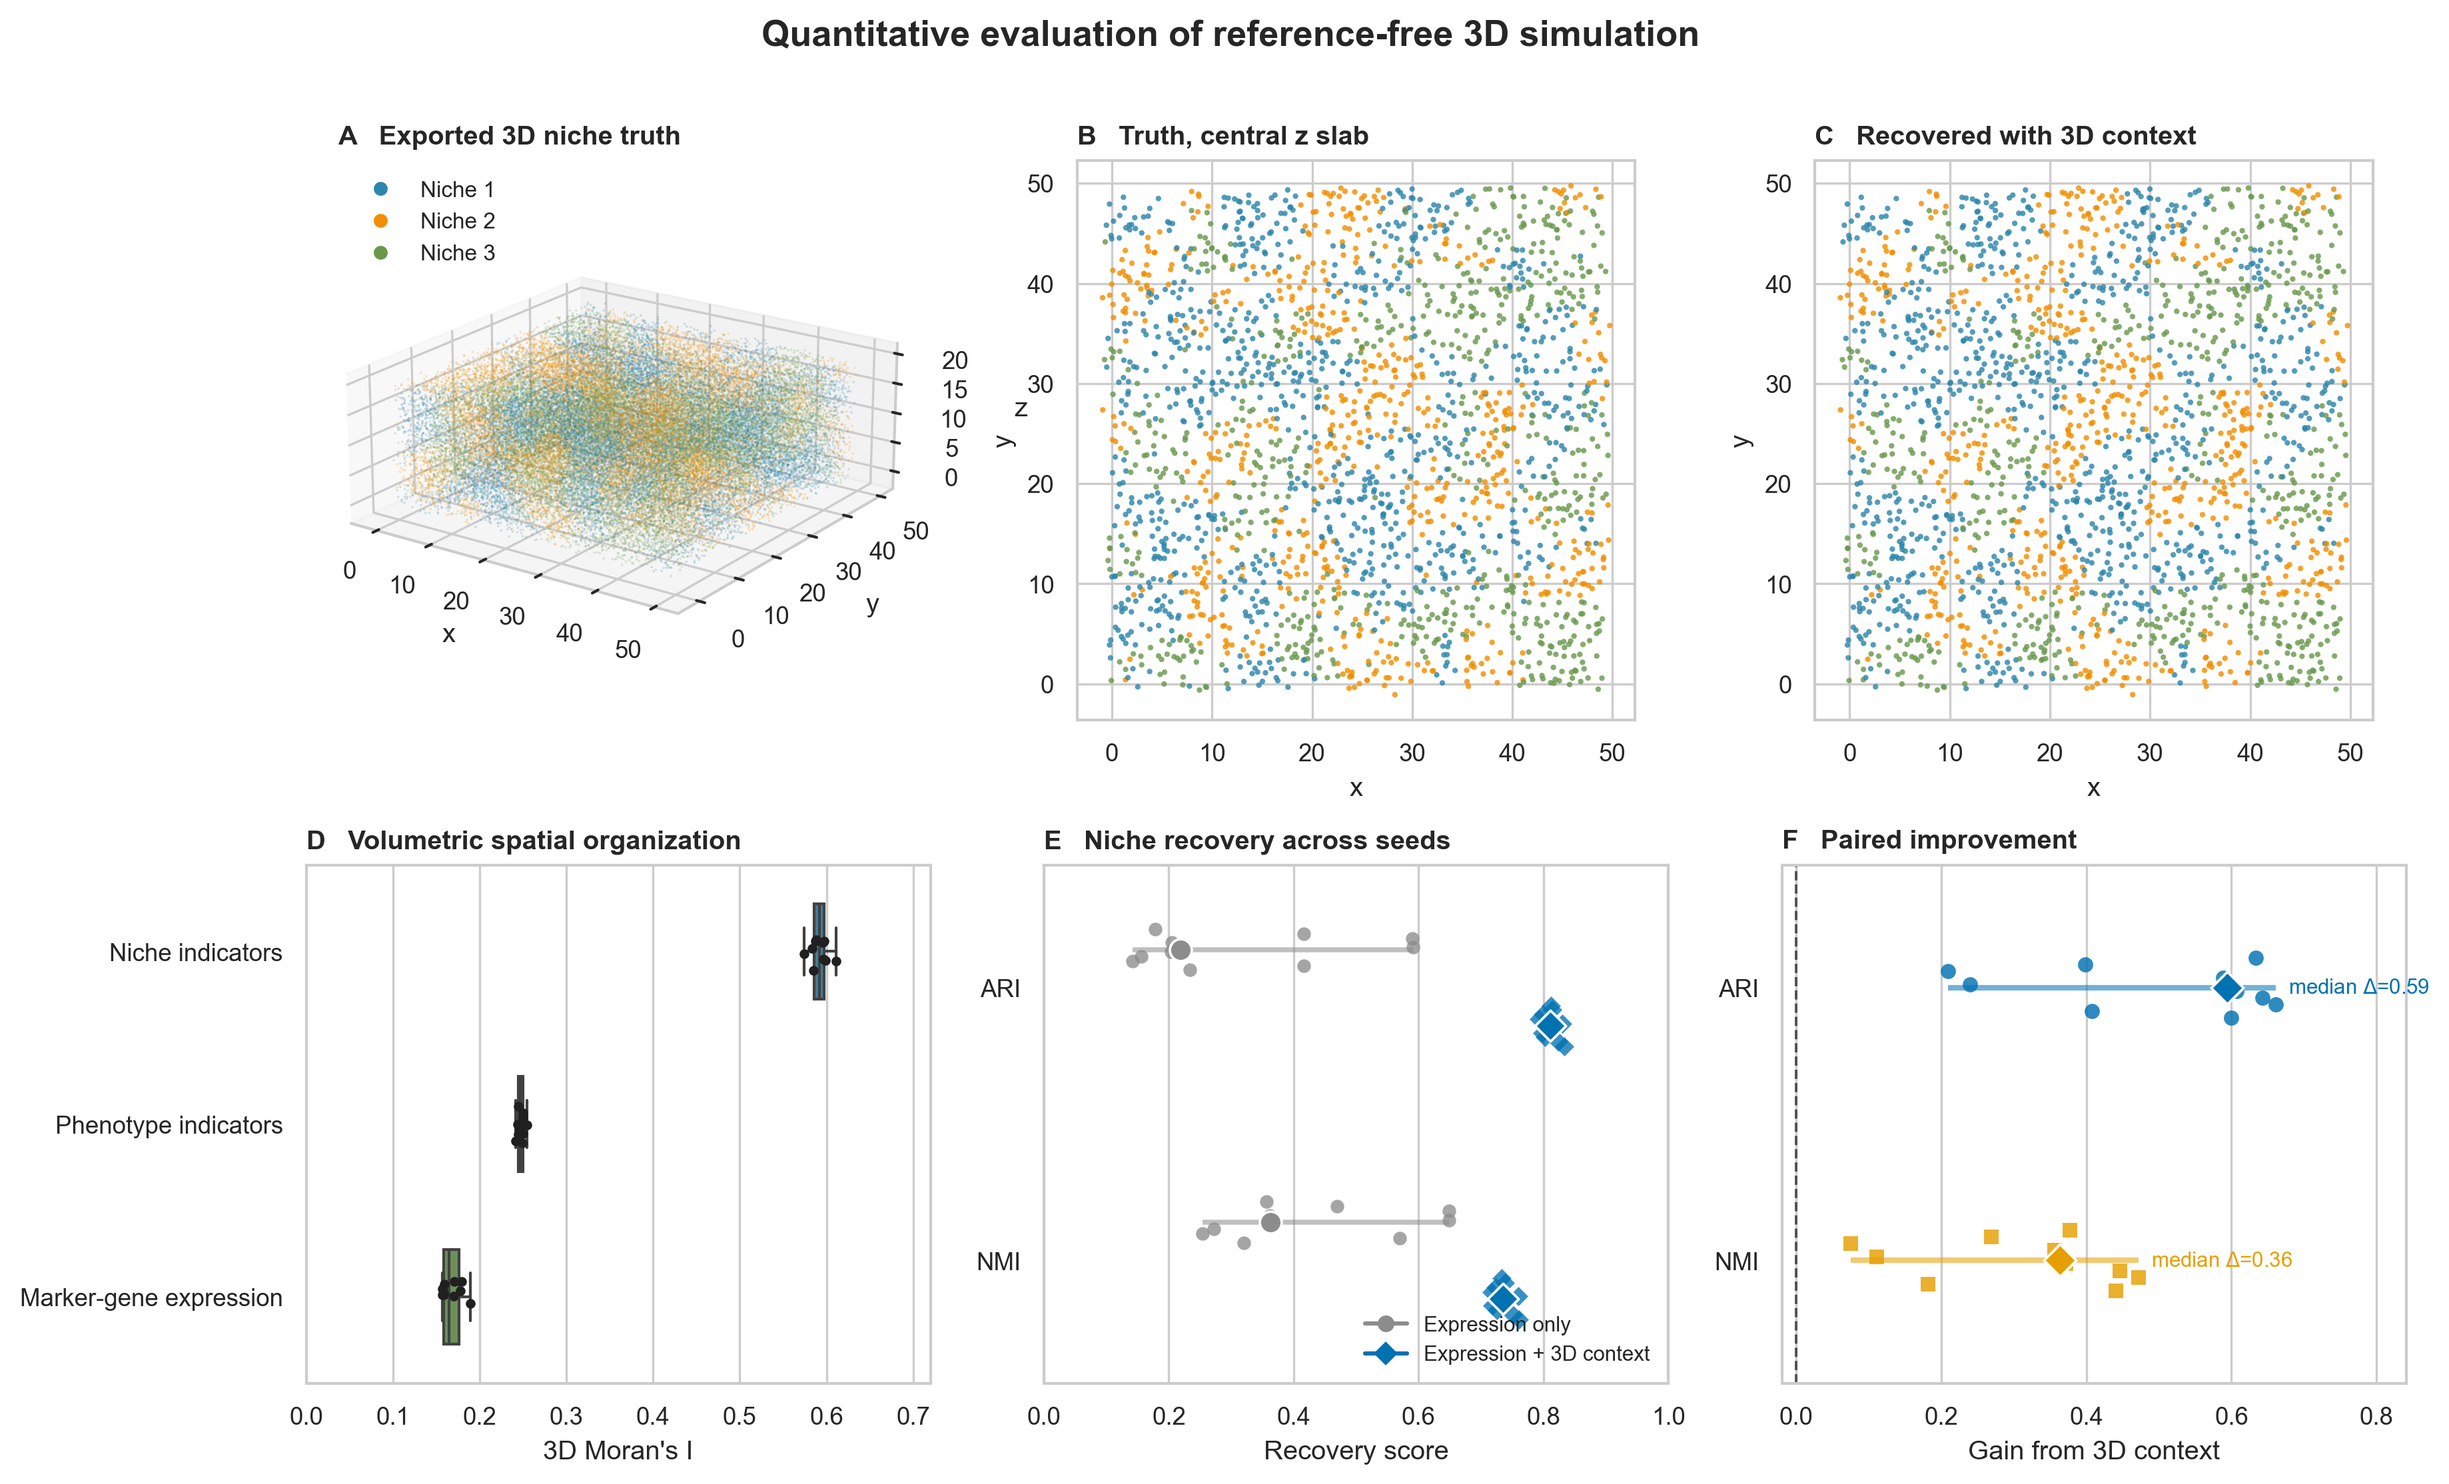
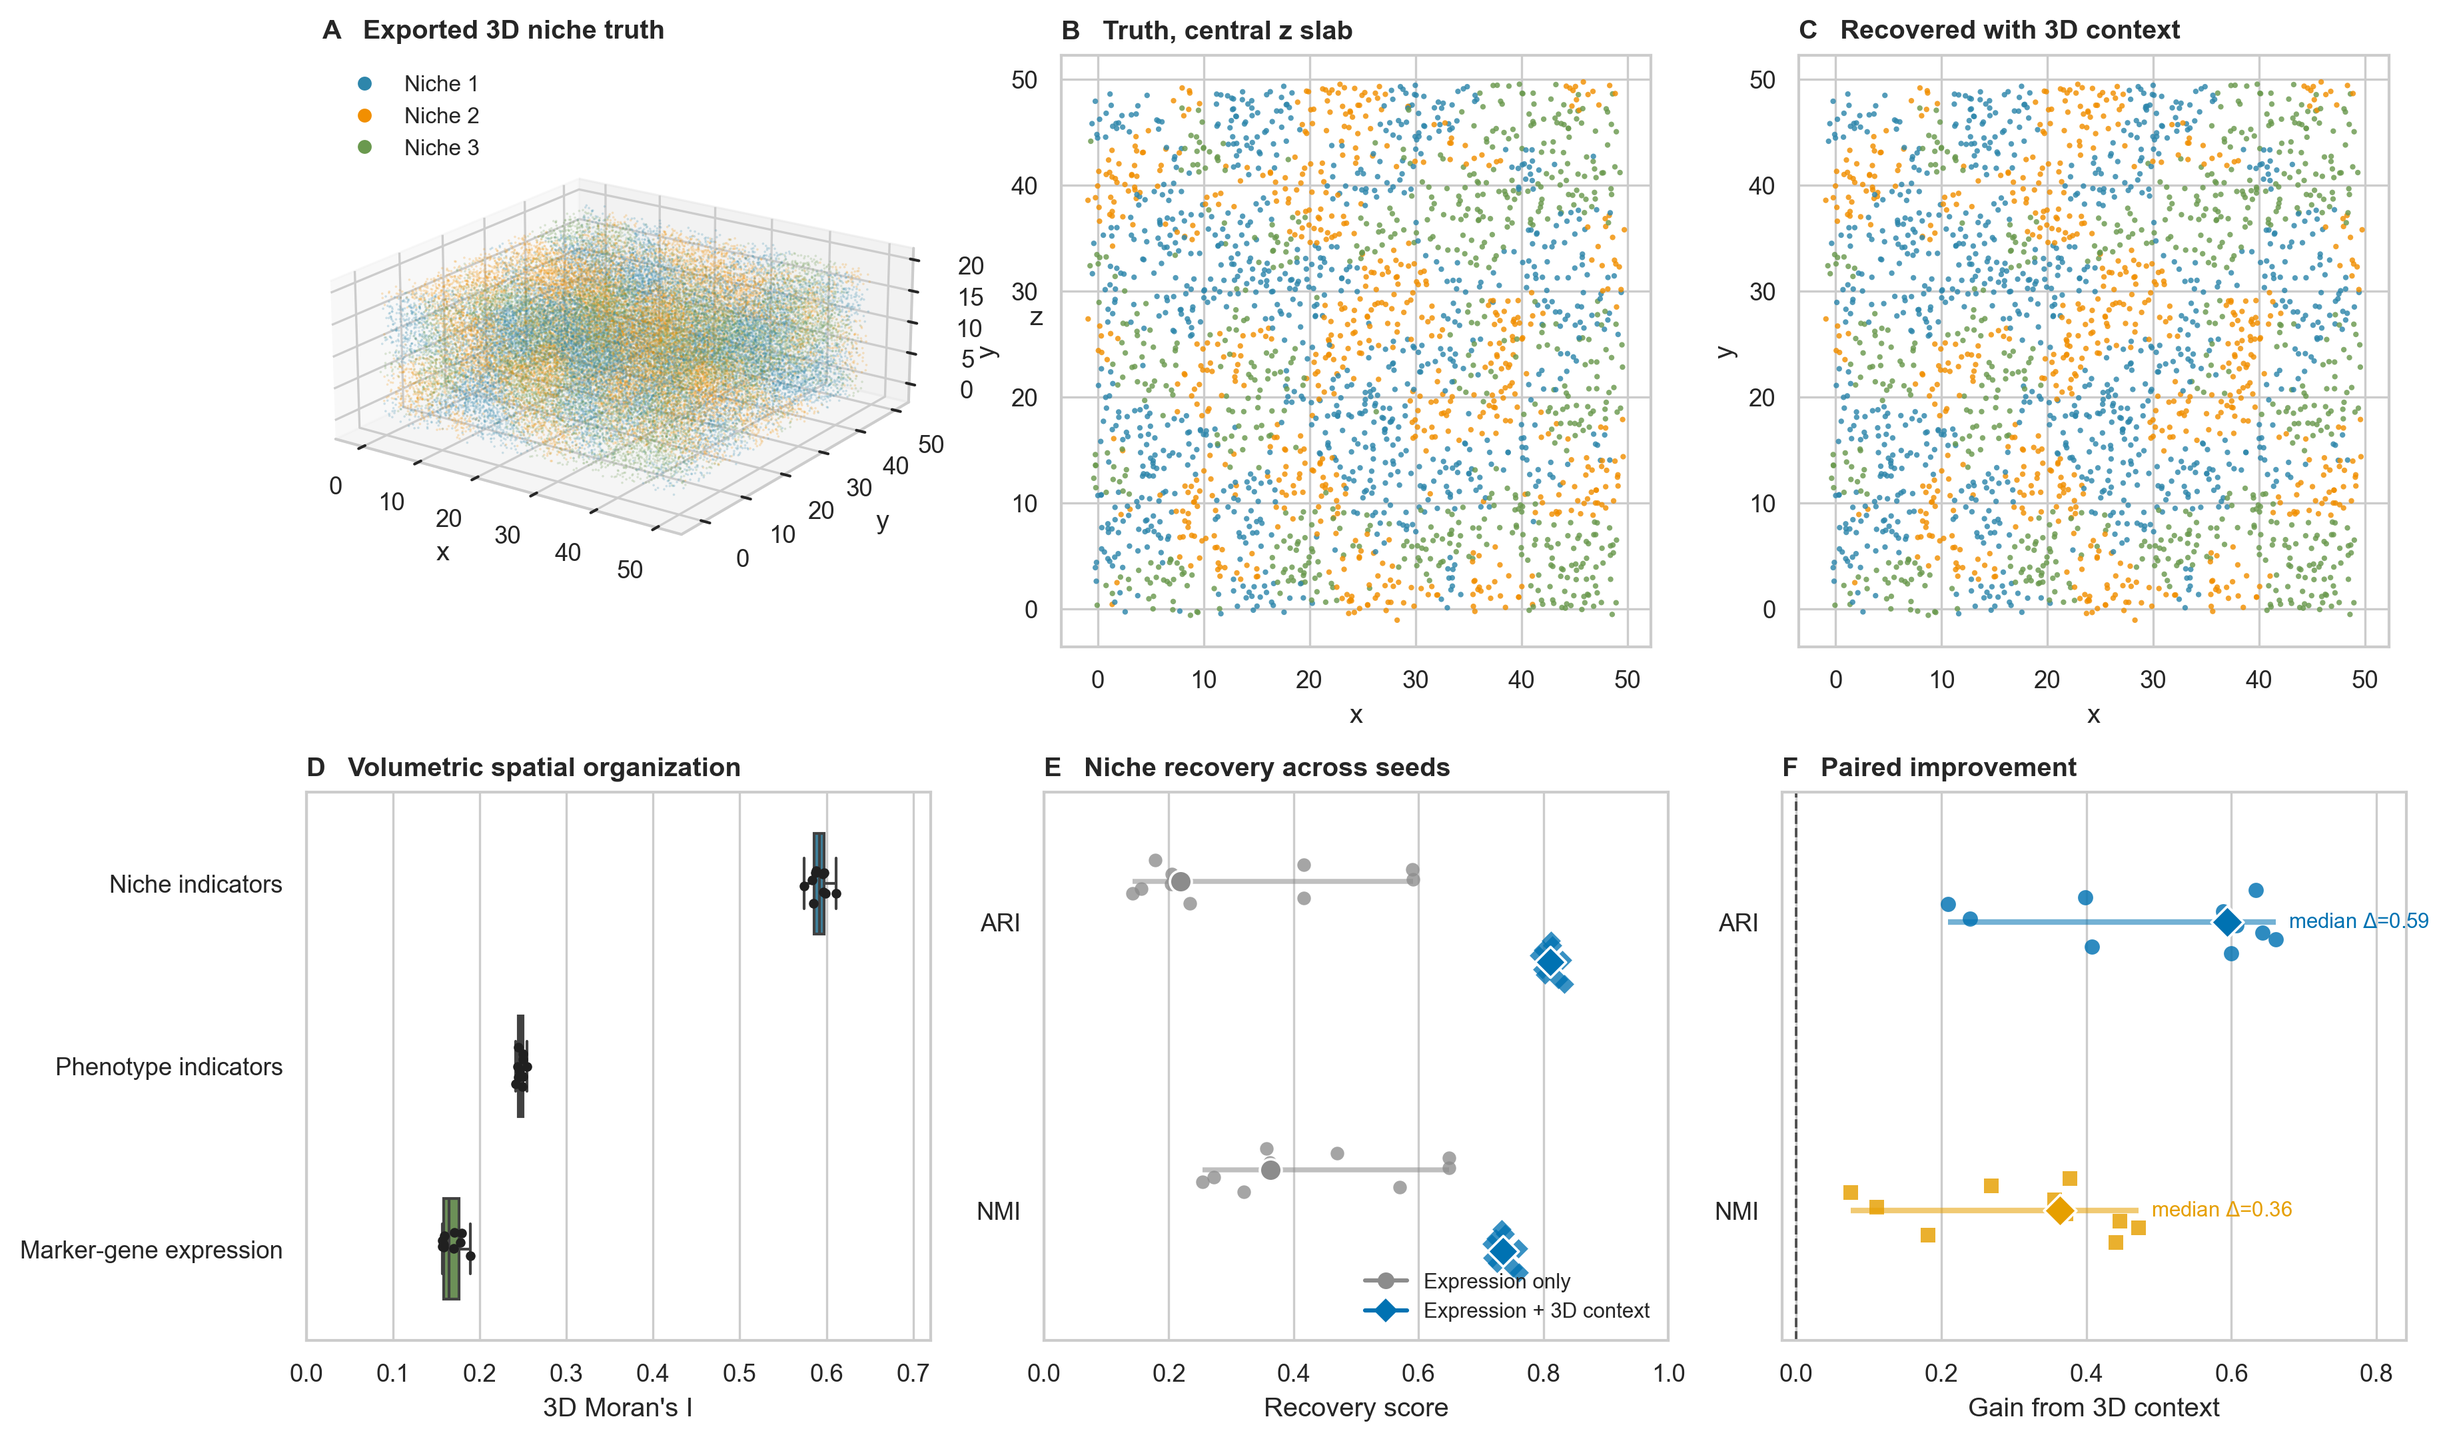
Update supp figure 5, 7, and 9

diff --git a/supp_figures/SFig5/SFig5.py b/supp_figures/SFig5/SFig5.py
@@ -52,13 +52,19 @@ PERTURBATION_SD = 0.2
 MORAN_K = 5
 GEARY_K = 20
 INTERACTION_K = 50
-SIMSPACE_EXPECTED_VERSION = "0.3.2"
-SIMSPACE_SOURCE_COMMIT = "ecf2855612871498dc89b8d43169229dfb8f6057"
+SIMSPACE_EXPECTED_VERSION = "0.3.4"
+SIMSPACE_SOURCE_COMMIT = "de0a4c002e4ae733e354e3e180ab69b381ad994a"
 
 METRIC_LABELS = {
     "moran_i": "Moran's I",
     "geary_c": "Geary's C",
     "interaction_distance": "Interaction distance",
+}
+
+METRIC_TITLES = {
+    "moran_i": "Moran's I Distribution",
+    "geary_c": "Geary's C Distribution",
+    "interaction_distance": "Cell Type Interaction Distribution",
 }
 
 
@@ -334,15 +340,15 @@ def plot_figure(
     raw_metrics: pd.DataFrame,
     representative: dict[int, pd.DataFrame],
 ) -> plt.Figure:
-    sns.set_theme(style="whitegrid", context="paper")
+    sns.set_theme(style="white", context="paper")
     figure = plt.figure(figsize=(12.0, 6.7), dpi=300)
-    grid = figure.add_gridspec(2, 4, height_ratios=[1.05, 1.0])
+    grid = figure.add_gridspec(2, 1, height_ratios=[1.0, 1.0])
+    summary_grid = grid[0, 0].subgridspec(1, 3, wspace=0.30)
+    layout_grid = grid[1, 0].subgridspec(1, 4, wspace=0.25)
     palette = sns.color_palette("viridis", len(SWEEP_COUNTS))
-    default_index = SWEEP_COUNTS.index(DEFAULT_SWEEPS)
-    palette[default_index] = sns.color_palette("muted")[3]
 
     for index, metric in enumerate(METRIC_LABELS):
-        axis = figure.add_subplot(grid[0, index])
+        axis = figure.add_subplot(summary_grid[0, index])
         subset = raw_metrics[raw_metrics["metric"] == metric]
         sns.violinplot(
             data=subset,
@@ -357,46 +363,28 @@ def plot_figure(
         )
         axis.set_xlabel("Phenotype Gibbs sweeps")
         axis.set_ylabel(METRIC_LABELS[metric])
-        axis.set_title(chr(ord("A") + index), loc="left", fontweight="bold")
+        axis.set_title(METRIC_TITLES[metric])
+        if index == 0:
+            axis.text(
+                -0.12,
+                1.08,
+                "A",
+                transform=axis.transAxes,
+                fontsize=13,
+                fontweight="bold",
+                va="top",
+            )
 
-    legend_axis = figure.add_subplot(grid[0, 3])
-    legend_axis.axis("off")
-    legend_axis.text(
-        0.02,
-        0.95,
-        "Sensitivity design",
-        fontsize=11,
-        fontweight="bold",
-        va="top",
-    )
-    legend_axis.text(
-        0.02,
-        0.82,
-        "8 fixed seeds (0–7)\n"
-        "2 niches; 9 cell states\n"
-        "100 × 100 lattice\n"
-        "6 niche sweeps (fixed)\n"
-        "Default: 4 phenotype sweeps\n\n"
-        "Violins pool the same metric\n"
-        "components across seeds.\n"
-        "This is a summary-sensitivity\n"
-        "analysis, not a proof of\n"
-        "full-field equilibrium.",
-        fontsize=9.2,
-        linespacing=1.35,
-        va="top",
-    )
-
-    state_palette = sns.color_palette("tab10", N_STATES)
+    state_palette = sns.color_palette("tab20", N_STATES)
     for index, sweeps in enumerate((1, 2, 4, 10)):
-        axis = figure.add_subplot(grid[1, index])
+        axis = figure.add_subplot(layout_grid[0, index])
         meta = representative[sweeps]
         colors = [state_palette[int(state)] for state in meta["state"]]
         axis.scatter(
             meta["col"],
             meta["row"],
             c=colors,
-            s=1.8,
+            s=8,
             linewidths=0,
             rasterized=True,
         )
@@ -404,19 +392,14 @@ def plot_figure(
         axis.set_xticks([])
         axis.set_yticks([])
         axis.set_title(
-            f"{chr(ord('D') + index)}   {sweeps} sweep"
+            f"{chr(ord('B') + index)}   {sweeps} sweep"
             f"{'s' if sweeps != 1 else ''}",
             loc="left",
             fontweight="bold",
         )
-        axis.set_xlabel("Seed 0")
+        axis.set_xlabel("X")
+        axis.set_ylabel("Y")
 
-    figure.suptitle(
-        "Sensitivity of spatial summaries to phenotype Gibbs sweep count",
-        fontsize=13,
-        fontweight="bold",
-        y=1.01,
-    )
     figure.tight_layout()
     return figure
 

diff --git a/supp_figures/SFig9/SFig9.py b/supp_figures/SFig9/SFig9.py
@@ -49,8 +49,8 @@ PERMUTATIONS = 100
 MIN_CELLTYPE_COUNT = 20
 MIN_GENE_DETECTION = 0.05
 MAX_GENE_DETECTION = 0.95
-SIMSPACE_EXPECTED_VERSION = "0.3.2"
-SIMSPACE_SOURCE_COMMIT = "ecf2855612871498dc89b8d43169229dfb8f6057"
+SIMSPACE_EXPECTED_VERSION = "0.3.4"
+SIMSPACE_SOURCE_COMMIT = "de0a4c002e4ae733e354e3e180ab69b381ad994a"
 
 TYPE_ABBREVIATIONS = {
     "Invasive_Tumor": "Tumor",
@@ -1097,11 +1097,6 @@ def plot_figure(
         )
         add_panel_label(axis, panel)
 
-    fig.suptitle(
-        "Local validation of a reference-guided SimSpace Xenium realization",
-        fontsize=15,
-        fontweight="bold",
-    )
     return fig
 
 

diff --git a/supp_figures/SFig7/SFig7.py b/supp_figures/SFig7/SFig7.py
@@ -67,8 +67,8 @@ SIX_CONNECTED_NEIGHBORHOOD = (
     (0, 0, -1),
     (0, 0, 1),
 )
-SIMSPACE_EXPECTED_VERSION = "0.3.2"
-SIMSPACE_SOURCE_COMMIT = "ecf2855612871498dc89b8d43169229dfb8f6057"
+SIMSPACE_EXPECTED_VERSION = "0.3.4"
+SIMSPACE_SOURCE_COMMIT = "de0a4c002e4ae733e354e3e180ab69b381ad994a"
 
 LEVEL_LABELS = {
     "niche_indicator": "Niche indicators",
@@ -592,12 +592,6 @@ def plot_figure(
         fontweight="bold",
     )
 
-    figure.suptitle(
-        "Quantitative evaluation of reference-free 3D simulation",
-        fontsize=13,
-        fontweight="bold",
-        y=1.01,
-    )
     figure.tight_layout()
     return figure
 

diff --git a/supp_figures/SFig9/SFig9_README.md b/supp_figures/SFig9/SFig9_README.md
@@ -1,6 +1,6 @@
 # Supplementary Figure 9 — local reference-guided validation
 
-This analysis addresses reviewer comments R1-2, R1-3, and R2-M6 using the
+This analysis addresses reviewer comments R1-2, R1-3, R2-M6, and R3-2 using the
 existing Figure 4 Xenium breast-tumor tile and the archived SimSpace fitted
 parameter file. It adds no dataset and modifies no package function.
 
@@ -56,8 +56,8 @@ co-localization in this analysis is noncausal.
 
 ## Run
 
-The frozen run used SimSpace 0.3.2 from commit
-`ecf2855612871498dc89b8d43169229dfb8f6057`. From the reproducibility
+The frozen run used SimSpace 0.3.4 from commit
+`de0a4c002e4ae733e354e3e180ab69b381ad994a`. From the reproducibility
 repository root, activate the environment defined by `environment.yml`,
 verify the adjacent source checkout, and run:
 
@@ -68,7 +68,7 @@ python supp_figures/SFig9/SFig9.py
 ```
 
 The first command must report
-`ecf2855612871498dc89b8d43169229dfb8f6057`.
+`de0a4c002e4ae733e354e3e180ab69b381ad994a`.
 
 To regenerate Panels J–K, use R 4.4.2 with scDesign3 1.5.0 and
 SingleCellExperiment 1.28.1:

diff --git a/supp_figures/SFig7/SFig7_README.md b/supp_figures/SFig7/SFig7_README.md
@@ -40,8 +40,8 @@ with another simulator or a published domain-identification method.
 
 ## Fast figure regeneration
 
-The archived run uses SimSpace 0.3.2 from commit
-`ecf2855612871498dc89b8d43169229dfb8f6057`. From the reproducibility
+The archived run uses SimSpace 0.3.4 from commit
+`de0a4c002e4ae733e354e3e180ab69b381ad994a`. From the reproducibility
 repository root, the normal entry point reads the archived ten-seed outputs
 and regenerates only the figure:
 

diff --git a/supp_figures/SFig5/SFig5_README.md b/supp_figures/SFig5/SFig5_README.md
@@ -26,8 +26,8 @@ than independent biological replicates.
 
 ## Run
 
-The frozen run used SimSpace 0.3.2 from commit
-`ecf2855612871498dc89b8d43169229dfb8f6057`. From the reproducibility
+The frozen run used SimSpace 0.3.4 from commit
+`de0a4c002e4ae733e354e3e180ab69b381ad994a`. From the reproducibility
 repository root:
 
 ```bash
